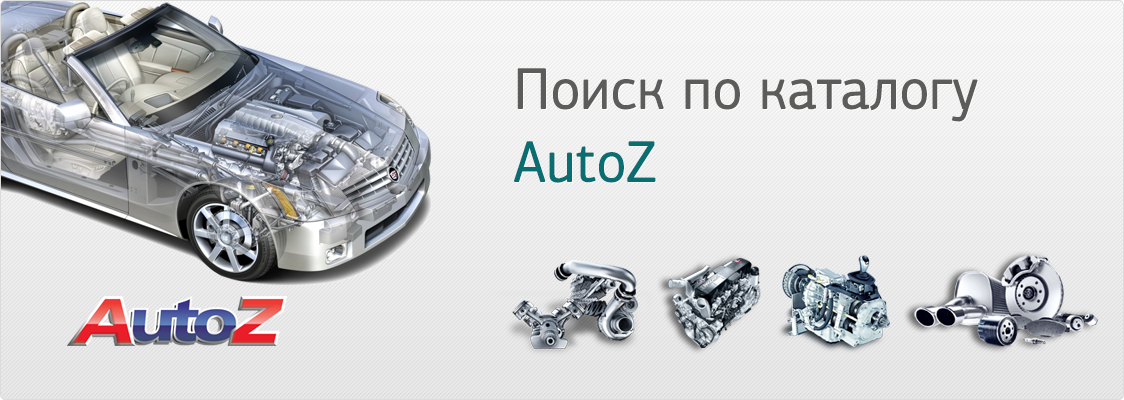
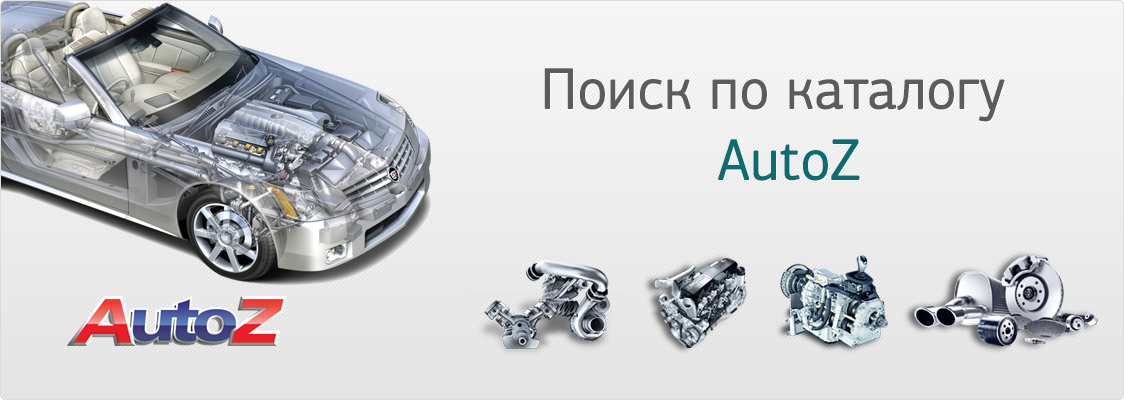
Поменял баннер Правки для загрузки моделей Zzap

diff --git a/app/Model/ZzapApi.php b/app/Model/ZzapApi.php
@@ -33,10 +33,10 @@ class ZzapApi extends AppModel {
 		$proxy_type = ($this->isBot($ip)) ? 'Bot' : 'Site';
 		if ($proxy_type == 'Bot' || TEST_ENV) {
 			// пытаемся достать инфу из кэша без запроса на API - так быстрее и не нужно юзать прокси
-			$_cache = $this->initModel('ZzapCache')->getCache($method, $request);
+			$_cache = $this->loadModel('ZzapCache')->getCache($method, $request);
 			if ($_cache) {
-				$this->initModel('ZzapLog')->clear();
-				$this->initModel('ZzapLog')->save(array(
+				$this->loadModel('ZzapLog')->clear();
+				$this->loadModel('ZzapLog')->save(array(
 					'ip_type' => $proxy_type,
 					'ip' => $ip,
 					'host' => gethostbyaddr($ip),
@@ -58,8 +58,8 @@ class ZzapApi extends AppModel {
 		// этого уже достаточно чтобы отправить запрос
 		
 		// если бот - перенаправляем на др.прокси-сервера для ботов - снимаем нагрузку с прокси для сайта
-		$proxy = $this->initModel('ProxyUse')->getProxy($proxy_type);
-		$this->initModel('ProxyUse')->useProxy($proxy['ProxyUse']['host'], $method, $request);
+		$proxy = $this->loadModel('ProxyUse')->getProxy($proxy_type);
+		$this->loadModel('ProxyUse')->useProxy($proxy['ProxyUse']['host'], $method, $request);
 		
 		$curl->setOption(CURLOPT_PROXY, $proxy['ProxyUse']['host'])
 			->setOption(CURLOPT_PROXYUSERPWD, $proxy['ProxyUse']['login'].':'.$proxy['ProxyUse']['password']);
@@ -98,14 +98,14 @@ class ZzapApi extends AppModel {
 			}
 			
 			// если все хорошо - сохраняем ответ в кэше
-			$this->initModel('ZzapCache')->setCache($method, $request, $response['d']);
+			$this->loadModel('ZzapCache')->setCache($method, $request, $response['d']);
 		} catch (Exception $e) {
 			if ($responseType == 'OK') {
 				// была ошибка ответа
 				$responseType = 'RESPONSE_ERROR';
 			}
 			// пытаемся достать ответ из кэша
-			$_cache = $this->initModel('ZzapCache')->getCache($method, $request);
+			$_cache = $this->loadModel('ZzapCache')->getCache($method, $request);
 			if ($_cache) {
 				$cache_id = $_cache['ZzapCache']['id'];
 				$cache = $_cache['ZzapCache']['response'];
@@ -119,8 +119,8 @@ class ZzapApi extends AppModel {
 		}
 		
 		// Логируем всю инфу для статистики
-		$this->initModel('ZzapLog')->clear();
-		$this->initModel('ZzapLog')->save(array(
+		$this->loadModel('ZzapLog')->clear();
+		$this->loadModel('ZzapLog')->save(array(
 			'ip_type' => $proxy_type,
 			'ip' => $ip,
 			'host' => gethostbyaddr($ip),
